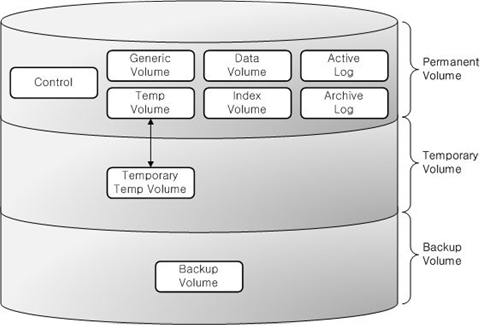
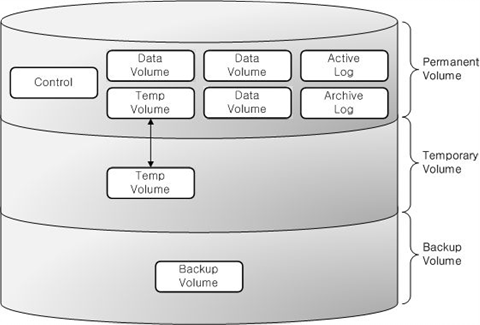
update intro.rst

diff --git a/en/intro.rst b/en/intro.rst
@@ -45,40 +45,21 @@ For commands to create, add or delete the database volume, see :ref:`creating-da
 Permanent Volume
 ^^^^^^^^^^^^^^^^
 
-Permanent volume is a database volume that exists permanently once it is created. Its types include generic, data, temp, index, control, active log and archive log.
+**Data Volumes**
 
-**Generic Volume**
+Permanent data volumes are database volumes that exists permanently once they are created.
 
-For efficient management, the volume type to be added to the database can be specified as one of the following: data, temp or index. If the volume type is not specified, it is specified as a generic volume and it stores data and index. 
-However, schema is stored only on the generic volume; there is no specific volume type for storing schema.
+It usually stores data that needs to be persistent after database restart or crash. The possible types of permanent data are:
 
-It is specified as the generic volume when a volume is automatically increased.
+*   Tables (rows and multimedia data) are internally stored into heap files and heap overflow files, one file for each table.
+*   Indexes (keys and multimedia data) are internally stored into b-tree files and b-tree overflow files, one file for each index.
+*   System data is internally stored into several types of files: file tracker, vacuum data, dropped files tracker, and class names hash.
 
-**Data Volume**
+User can specifically assign some permanent data volumes to store temporary data. These volumes are permanent in the sense that they are never destroyed, but behave similarly to :ref:`temporary-volumes`.
 
-Data volume is a space for storing data such as instances, tables and multimedia data.
+.. note::
 
-**Temp Volume**
-
-Temp volume is a space where the intermediate and final results of query processing and sorting are temporarily stored. It is also called the permanent temp volume to distinguish it from the temporary temp volume that will be described below. The temp volume is a permanently-occupied space, meaning that data in the space is temporary stored and later destroyed. Therefore, when CUBRID restarts, the data in the temp volume space is initialized and the related log information is removed.
-
-The examples of queries that can use permanent temp volume or temporary temp volume are as follows:
-
-*   Queries creating the resultset like **SELECT**
-*    Queries including **GROUP BY** or **ORDER BY**
-*    Queries including a subquery
-*    Queries executing sort-merge join
-*    Queries including the **CREATE INDEX** statement
-
-When executing the queries above, the temp volume is used after exhausting the memory space (the space size is determined by the system parameter **temp_file_memory_size_in_pages** specified in **cubrid.conf**) assigned to store **SELECT** results or sort the data. The order in which the storage space is used to store the results of query processing and sorting is as follows: When the current storage space is exhausted, the next storage space is used.
-
-*   **temp_file_memory_size_in_pages** memory secured by the system parameter
-*   Permanent temp volume
-*   Temporary temp volume (for details, see the below)
-
-**Index Volume**
-
-Index volume is a space that holds the index information for query processing or integrity constraint checks.
+    If you have used older CUBRID version, you may know that we used to have several types of permanent data volumes: **generic**, **data** and **index**. This classification is deprecated, and although these options are still allowed for **cubrid createdb** and **cubrid addvoldb** commands, the created volumes will be no different and they will store any type of permanent data. The volume purpose is only classified into permanent data and temporary data.
 
 **Control File**
 
@@ -106,24 +87,43 @@ To get more information on the above, see :ref:`managing-archive-logs`.
 
 Background archive log is a volume used in the background with log archiving temporarily before creating archive logs. It is created as the same volume size as active log and stored.
 
+.. _temporary-volumes:
+
 Temporary Volume
 ^^^^^^^^^^^^^^^^
 
-Temporary volume has the opposite meaning to the permanent volume. That is, the temporary volume is a storage created only when the accumulated data exceeds the space specified by the user as the permanent volume. The temporary volume is destroyed when the server process terminates. One of such volumes created or destroyed temporarily is the temporary temp volume.
+Temporary data volume has the opposite meaning to the permanent volume. That is, the temporary volume is a storage file created temporarily which gets destroyed when the server process terminates. These volumes are used to store intermediate and final results of query processing and sorting.
 
-**Temporary Temp Volume**
+These files provide space to store intermediary and final results of queries. Based on the size of required temporary data, it will be first stored in memory (the space size is determined by the system parameter **temp_file_memory_size_in_pages** specified in **cubrid.conf**). Exceeding data has to be stored on disk.
 
-Temporary temp volume is a temporary volume created temporarily by the system after exhausting the space specified as the permanent temp volume, whereas the temporary volume belongs to the permanent volume with the permanent space specified. Because cost to create a temporary temp volume is high, **DBA** should assign an appropriate size of volume depending on situation to enhance performance.
+Database will usually create and use temporary volumes to allocate disk space for temporary data. They user may however assign permanent database volumes with the purpose of storing temporary data using by running **cubrid addvoldb -p temp** command. If such volumes exist, they will have priority over temporary volumes when disk space is allocated for temporary data.
 
-**DBA** should consider space where temporary temp volume can be created when creating a database. Once temporary temp volume is created, it is maintained until a database restarts and its size cannot be reduced. It is recommended to make temporary temp volume automatically delete by restarting a database if its size is too big.
+The examples of queries that can use temporary data are as follows:
 
-*   **File name of the temporary temp volume**: The file name of the temporary temp volume of CUBRID has the format of *db_name*\ **_t**\ *num*, where *db_name* is the database name and *num* is the volume identifier. The volume identifier is decremented by 1 from 32766.
+*   Queries creating the resultset like **SELECT**
+*   Queries including **GROUP BY** or **ORDER BY**
+*   Queries including a subquery
+*   Queries executing sort-merge join
+*   Queries including the **CREATE INDEX** statement
 
-*   **Configuring the temporary temp volume size**: The number of temporary temp volumes to be created is determined by the system depending on the space size needed for processing transactions. However, users can limit the temporary temp volume size by configuring the **temp_file_max_size_in_pages** parameter value in the system parameter configuration file (**cubrid.conf**). The default value is -1, which means it can be created as long as free space is available. If the **temp_file_max_size_in_pages** parameter value is configured to 0, the temporary temp volume will not be created even after exhausting the permanent temp volume.
+To have complete control on the disk space used for temporary data and to prevent it from consuming all system disk space, our recommendation is to:
 
-*   **Configuring storing location of the temporary temp volume**: By default, the temporary temp volume is created where the first database volume was created. However, you can specify a different directory to store the temporary temp volume by configuring the **temp_volume_path** parameter value.
+*   create permanent database volumes in advance to secure the required space for temporary data
+*   limit the size of the space used in the temporary volumes when a queries are executed by setting **temp_file_max_size_in_pages** parameter in **cubrid.conf** (there is no limit by default).
 
-*   **Deleting the temporary temp volume**: The temporary temp volume exists temporarily only while the database is running. Therefore, you must not delete the temporary temp volume when running servers. The temporary temp volume is deleted if database servers are normally terminated while it is deleted when the servers restart if database servers are abnormally terminated.
+Once temporary temp volume is created, it is maintained until a database restarts and its size cannot be reduced. It is recommended to make temporary temp volume automatically delete by restarting a database if its size is too big.
+
+*   **File name of the temporary volumes**: The file name format of a temporary volume is *db_name*\ **_t**\ *num*, where *db_name* is the database name and *num* is the volume identifier. The volume identifier is decremented by 1 from 32766.
+
+*   **Configuring the temporary volume size**: The number of temporary volumes to be created is determined by the system depending on the space size needed for processing transactions. However, users can limit the total temporary volume size by configuring the **temp_file_max_size_in_pages** parameter value in the system parameter configuration file (**cubrid.conf**). The default value is -1, which means it can be created as long as free space is available. If the **temp_file_max_size_in_pages** parameter value is configured to 0, no temporary volumes will be created, and the system will have to rely exclusively on permanent volumes assigned for temporary data.
+
+*   **Configuring storing location of temporary volumes**: By default, temporary volumes are created where the first database volume was created. However, you can specify a different directory to store temporary volumes by configuring the **temp_volume_path** parameter value.
+
+*   **Deleting temporary volumes**: Temporary volumes exist only while the database is running. Therefore, you must not delete the temporary volumes when running servers. They are deleted when database servers are normally terminated. When database servers are  abnormally terminated, temporary volumes are deleted on servers restart.
+
+.. note::
+
+    Normally, permanent volumes are used to store permanent data, and temporary volumes are used to store temporary data. You can assign permanent volumes to store temporary data, but temporary volumes will never store permanent data!
 
 Backup Volume
 ^^^^^^^^^^^^^
